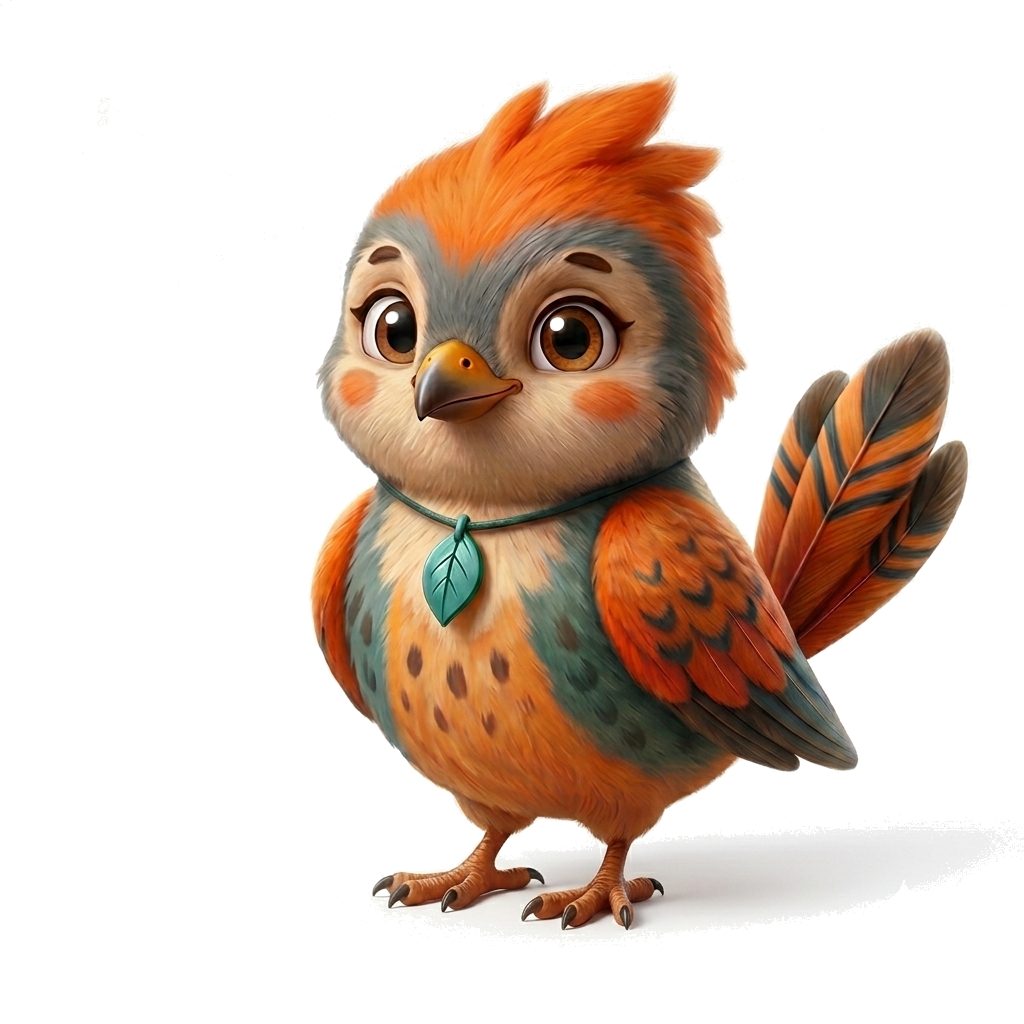
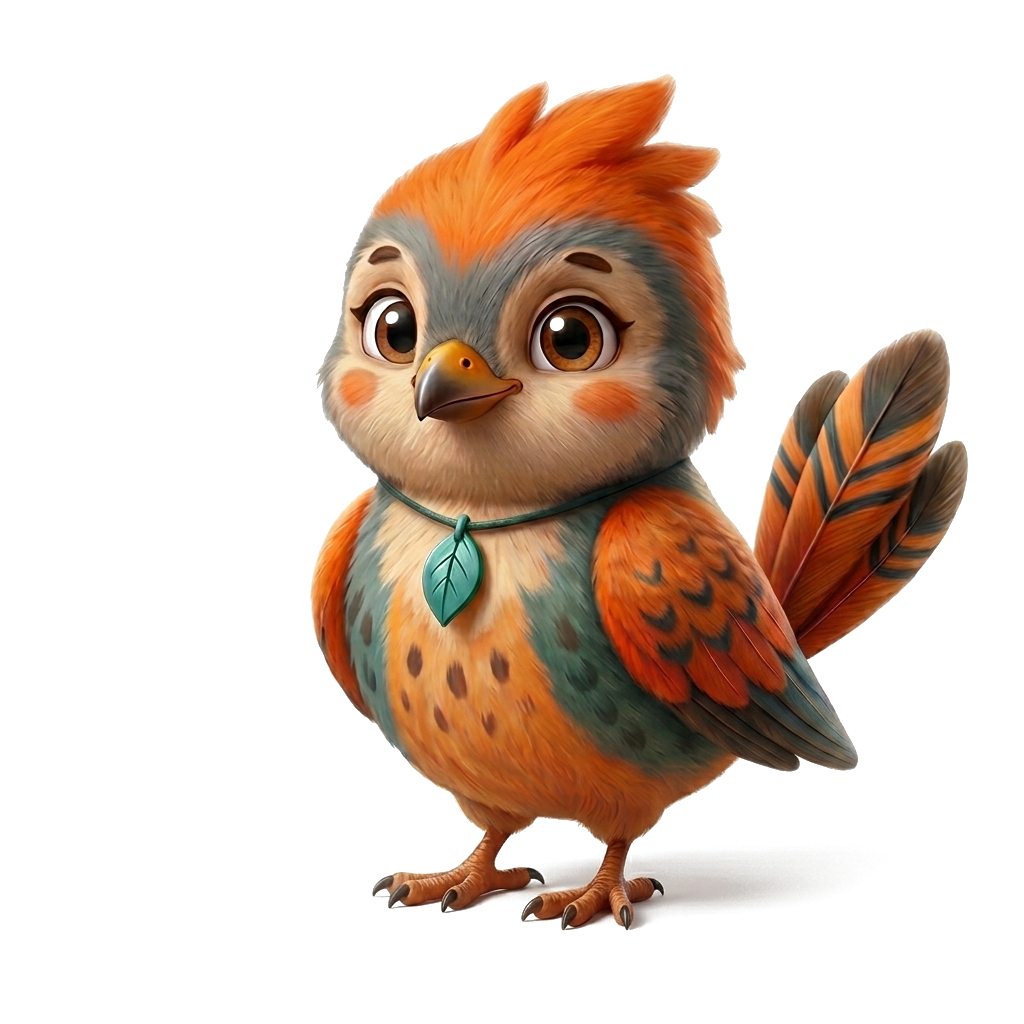
Mascote Sobre: remove sombra da imagem e move para direita do box

Changed region(s): [[0.625, 0.8125, 0.875, 0.9062], [0.4688, 0.8125, 0.5938, 0.9062], [0.3438, 0.3125, 0.375, 0.3438]]

diff --git a/src/app/sobre/page.tsx b/src/app/sobre/page.tsx
@@ -44,7 +44,7 @@ export default function SobrePage() {
           <img
             src="/mascote.png"
             alt="Kiri-kiri"
-            className="absolute top-0 left-1/2 -translate-x-1/2 w-20 h-20 object-contain z-10"
+            className="absolute top-0 right-8 w-20 h-20 object-contain z-10"
           />
           <div className="bg-[#FAF0E4] border border-[#E8DDD0] rounded-[16px] px-6 py-5 text-center">
             <p className="font-serif italic text-[18px] md:text-[20px] leading-[1.65] text-carvao m-0">